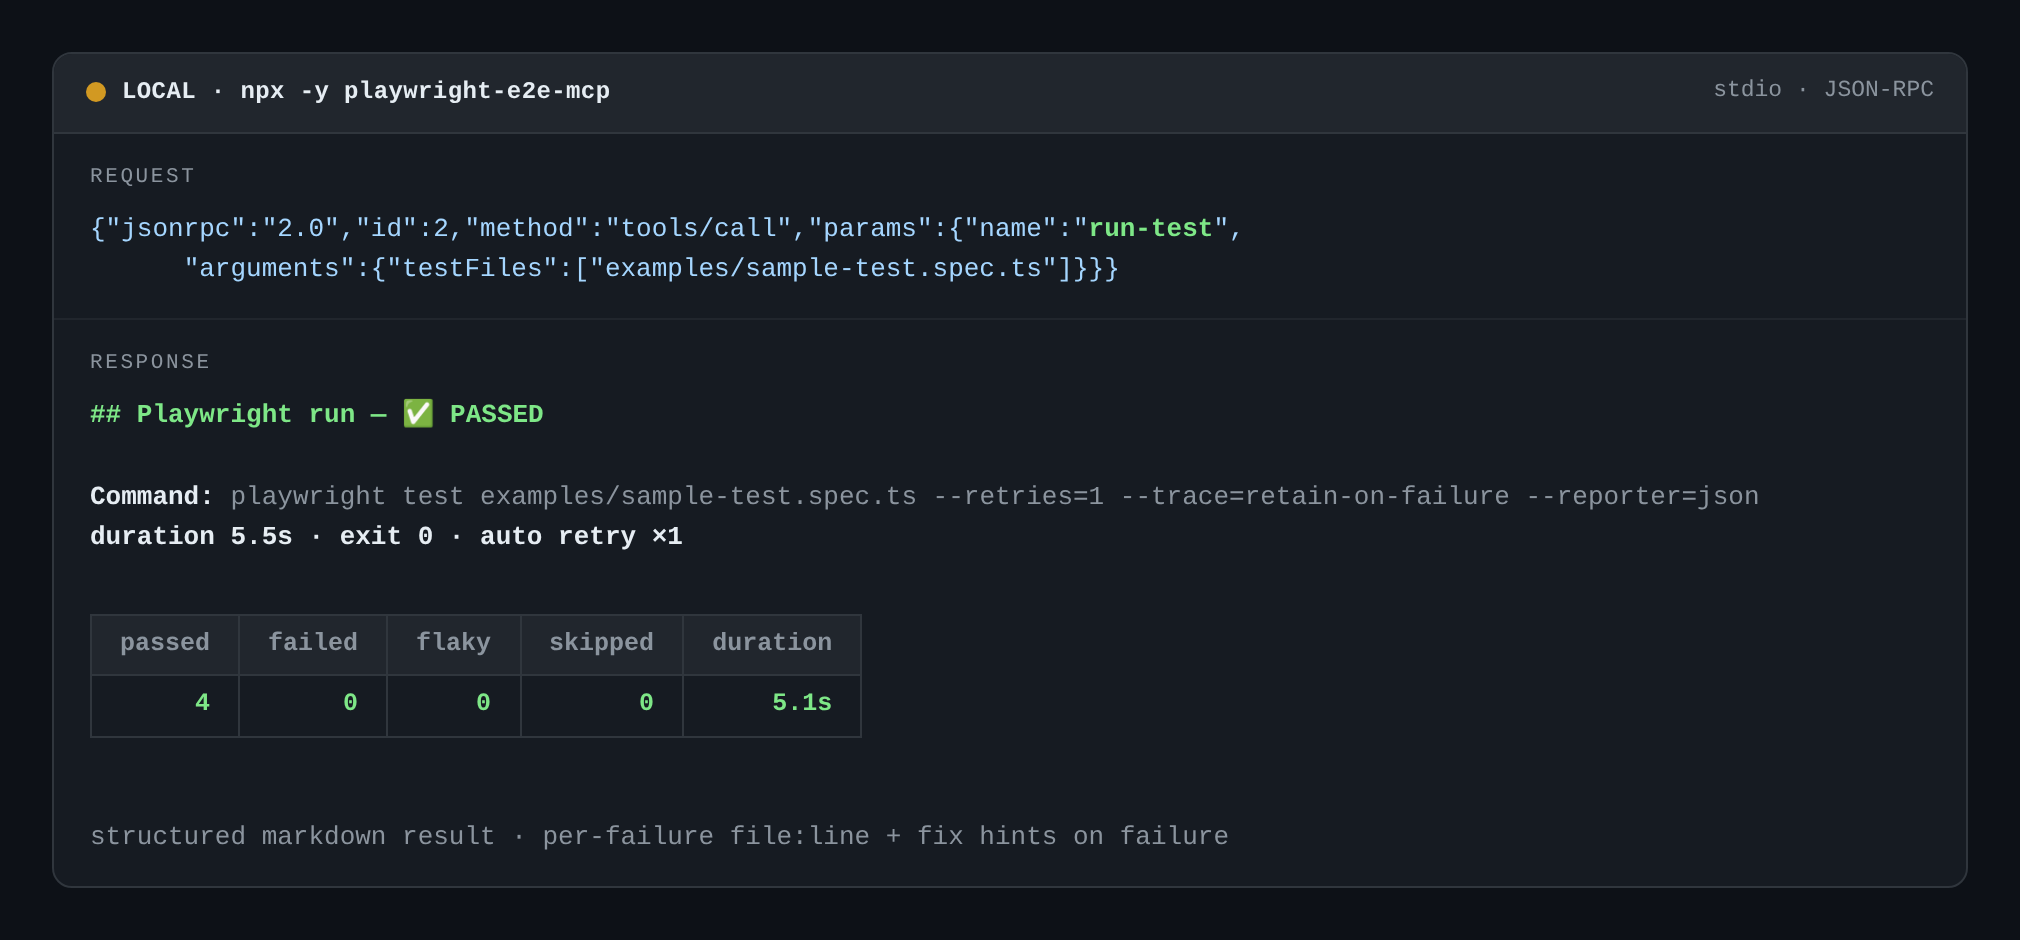
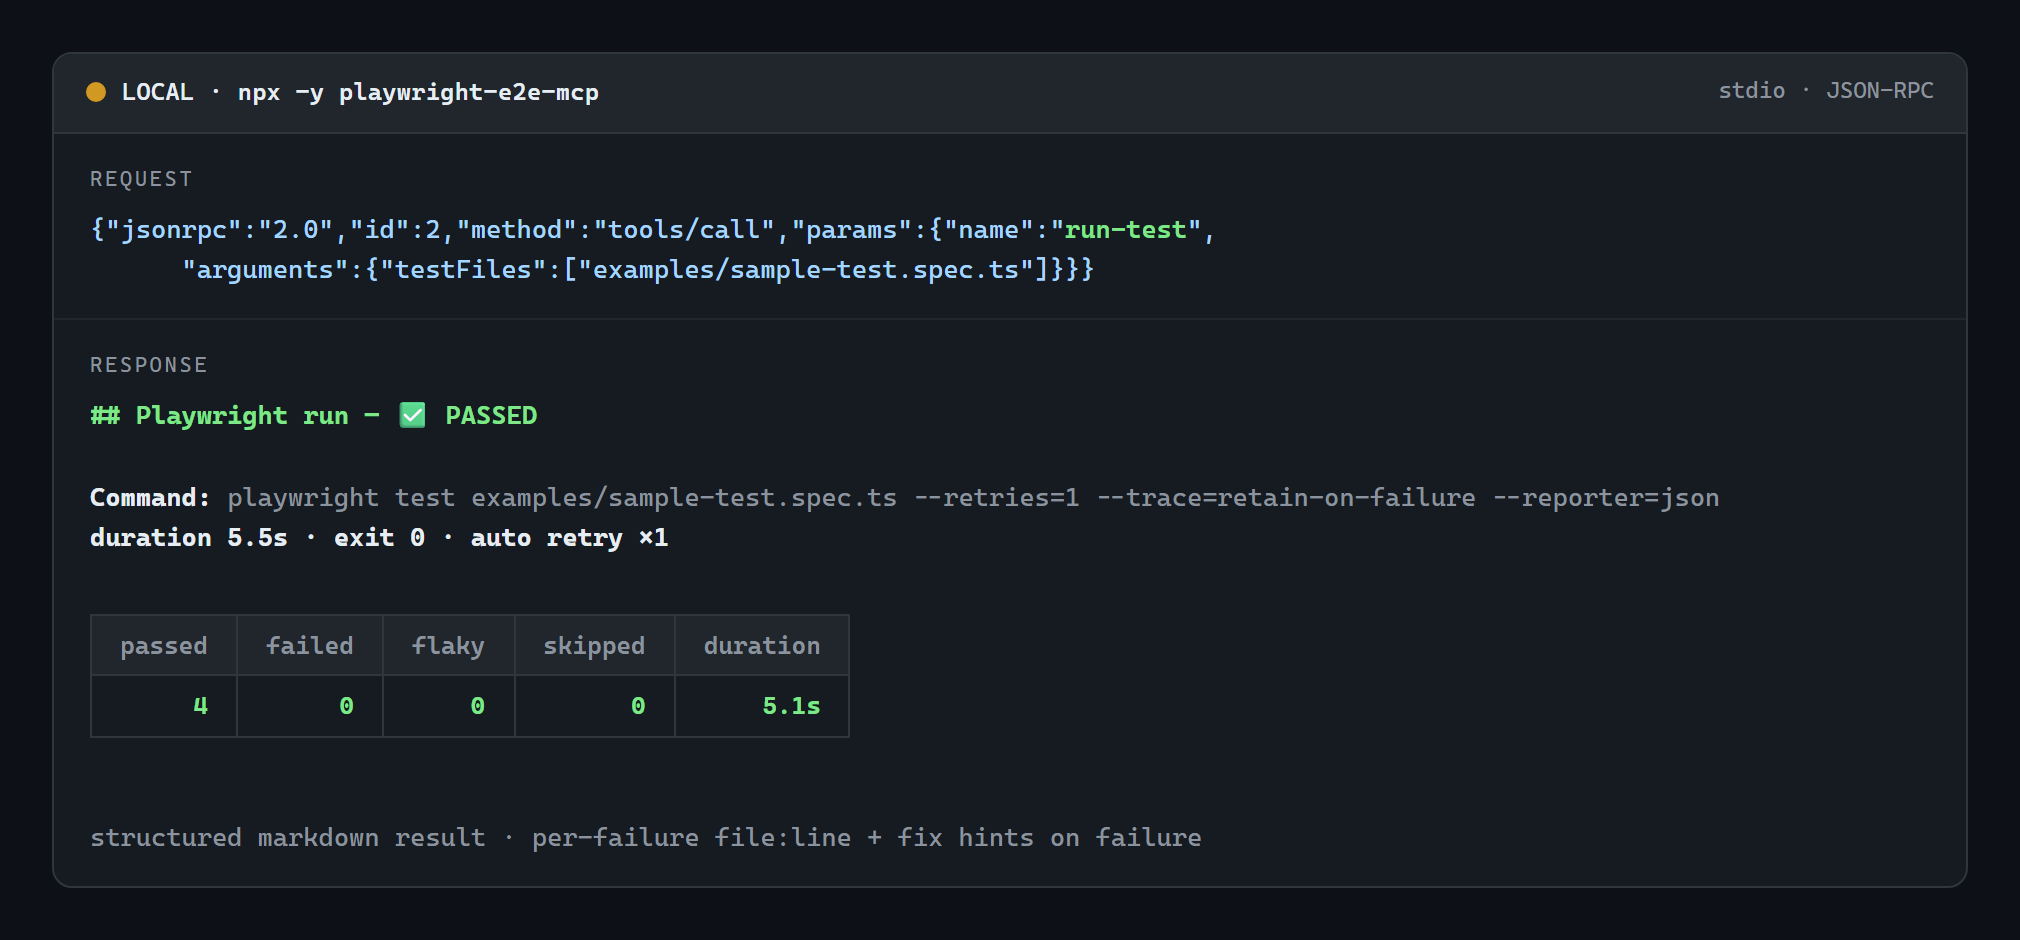
Release 0.2.1
Ships the reproducible .mcpb build and cross-platform hash check from
PRs #5 and #6 in a tagged release, and refreshes the demo images so the
endpoint card shows the released version.

🤖 Generated with Codebuff

diff --git a/README.md b/README.md
@@ -67,7 +67,7 @@ and every other MCP client — pick whichever route fits:
 | --- | --- |
 | **npm (canonical, fastest)** | `npx -y playwright-e2e-mcp` |
 | **MCP Registry** (registry-aware clients discover it automatically) | `io.github.trajectiq-ai/E2E` — [listing](https://registry.modelcontextprotocol.io/) |
-| **Any client, no npm account needed** | `npx -y github:trajectiq-ai/E2E#v0.2.0` (pin a release tag) |
+| **Any client, no npm account needed** | `npx -y github:trajectiq-ai/E2E#v0.2.1` (pin a release tag) |
 | **Claude Desktop, zero Node setup** | double-click the [`.mcpb` extension](https://github.com/trajectiq-ai/E2E/releases) |
 | **Remote-only clients (ChatGPT connectors)** | `https://playwright-e2e-mcp.vercel.app/api/mcp` |
 
@@ -370,8 +370,8 @@ builds `dist/` automatically on install). Pin a release tag: an unpinned
 `github:trajectiq-ai/E2E` runs whatever is on the default branch at that moment.
 
 ```bash
-npx -y github:trajectiq-ai/E2E#v0.2.0
-npm install -D github:trajectiq-ai/E2E#v0.2.0 @playwright/test   # or as a project dependency
+npx -y github:trajectiq-ai/E2E#v0.2.1
+npm install -D github:trajectiq-ai/E2E#v0.2.1 @playwright/test   # or as a project dependency
 npx playwright install chromium
 ```
 
@@ -379,7 +379,7 @@ Or grab the packaged tarball from the repo's **GitHub Releases** page and instal
 it locally:
 
 ```bash
-npm install -D https://github.com/trajectiq-ai/E2E/releases/download/v0.2.0/playwright-e2e-mcp-0.2.0.tgz
+npm install -D https://github.com/trajectiq-ai/E2E/releases/download/v0.2.1/playwright-e2e-mcp-0.2.1.tgz
 ```
 
 Listed in the **official [MCP Registry](https://registry.modelcontextprotocol.io/)** as
@@ -395,7 +395,7 @@ Listed in the **official [MCP Registry](https://registry.modelcontextprotocol.io
   "mcpServers": {
     "playwright-e2e": {
       "command": "npx",
-      "args": ["-y", "github:trajectiq-ai/E2E#v0.2.0"],
+      "args": ["-y", "github:trajectiq-ai/E2E#v0.2.1"],
       "env": { "PW_MCP_PROJECT_ROOT": "/absolute/path/to/your/project" }
     }
   }
@@ -409,8 +409,8 @@ when the client launches it somewhere else (e.g. your home directory).
 **Codex / VS Code / Copilot CLIs:**
 
 ```bash
-codex mcp add playwright-e2e -- npx -y github:trajectiq-ai/E2E#v0.2.0
-code --add-mcp '{"name":"playwright-e2e","command":"npx","args":["-y","github:trajectiq-ai/E2E#v0.2.0"]}'
+codex mcp add playwright-e2e -- npx -y github:trajectiq-ai/E2E#v0.2.1
+code --add-mcp '{"name":"playwright-e2e","command":"npx","args":["-y","github:trajectiq-ai/E2E#v0.2.1"]}'
 ```
 
 Codex's defaults fight this server: the first launch clones the repo and runs
@@ -421,7 +421,7 @@ Codex's defaults fight this server: the first launch clones the repo and runs
 ```toml
 [mcp_servers.playwright-e2e]
 command = "npx"
-args = ["-y", "github:trajectiq-ai/E2E#v0.2.0"]
+args = ["-y", "github:trajectiq-ai/E2E#v0.2.1"]
 startup_timeout_sec = 60
 tool_timeout_sec = 600
 ```
@@ -436,7 +436,7 @@ into `PW_MCP_PROJECT_ROOT`, so the tools point at a real project from the first 
 **Claude Code:**
 
 ```bash
-claude mcp add playwright-e2e -- npx -y github:trajectiq-ai/E2E#v0.2.0
+claude mcp add playwright-e2e -- npx -y github:trajectiq-ai/E2E#v0.2.1
 ```
 
 **Gemini CLI / Qwen Code:** paste the `mcpServers` block above into
